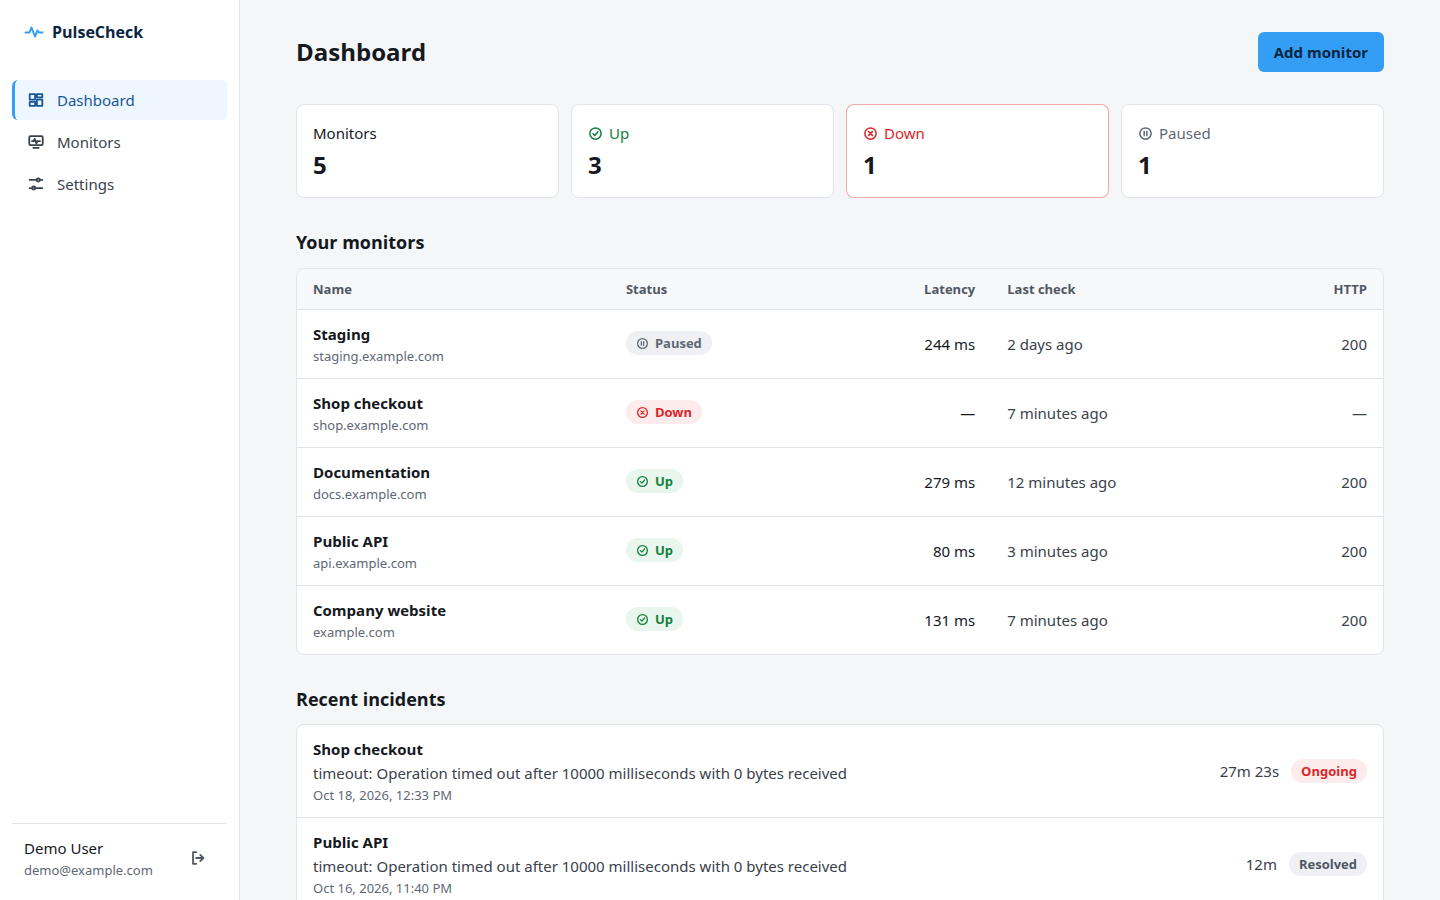
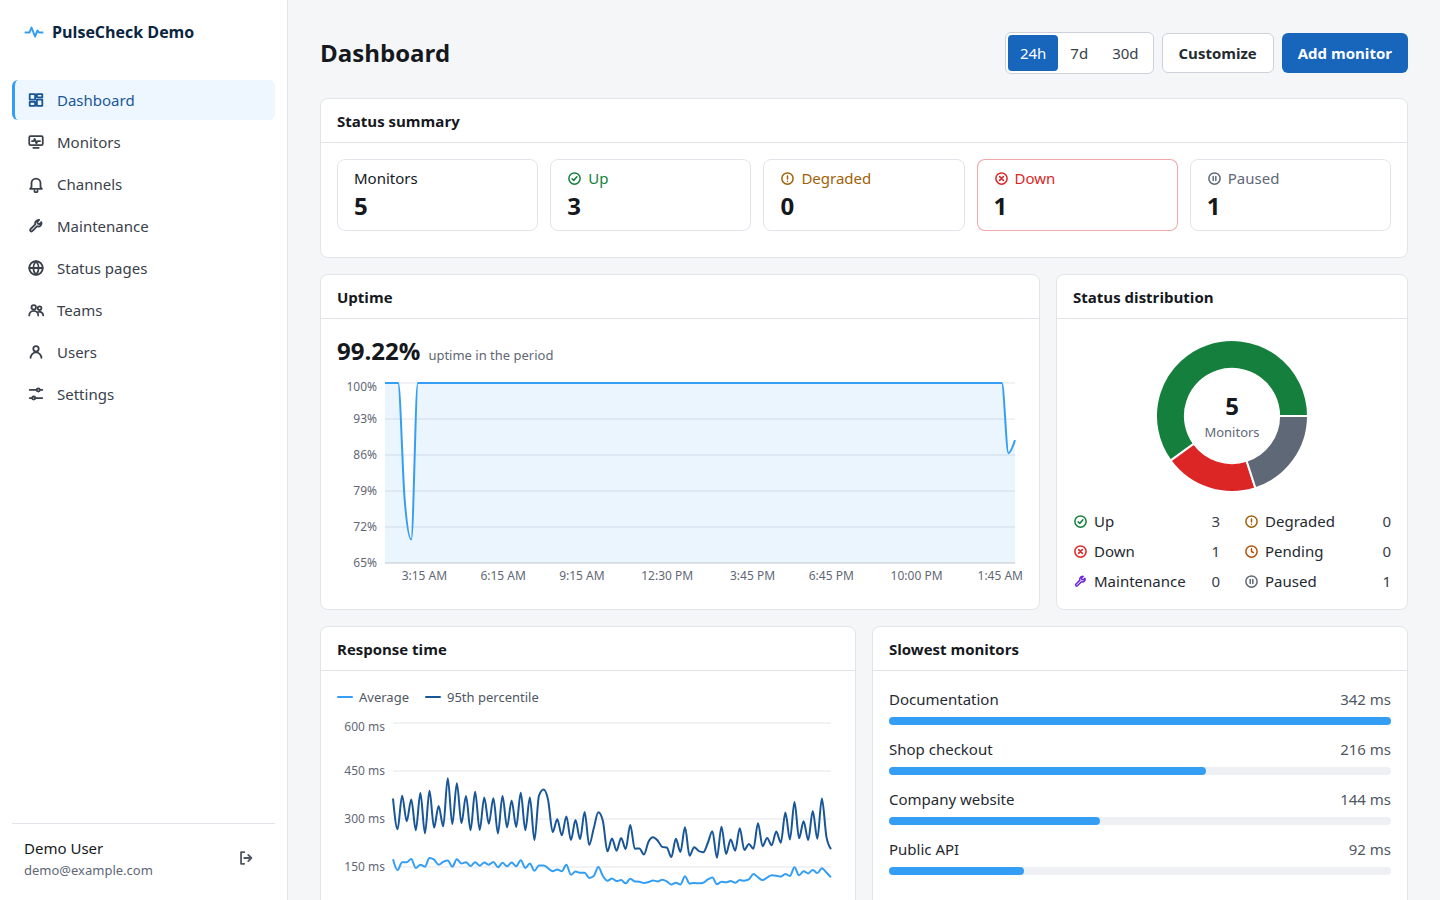
readme

diff --git a/README.md b/README.md
@@ -2,7 +2,7 @@
 
 Self-hosted uptime monitoring for one team or organization per deploy: PulseCheck checks your websites and APIs every few minutes, records response times and incidents, and alerts you on Telegram, Slack, Discord, email or any webhook when something goes down and when it comes back.
 
-![Dashboard with five monitors, one of them down, and recent incidents](screenshots/dashboard.png)
+![Dashboard with the status summary, uptime, status distribution, response time and slowest monitors charts](screenshots/dashboard.png)
 
 <sub>Screenshots show the real application running locally with demo data from `DevelopmentSeeder`.</sub>
 
@@ -19,20 +19,27 @@ Self-hosted uptime monitoring for one team or organization per deploy: PulseChec
 - **Incidents** with cause, start, end and duration; one incident per outage. Anyone who can see the monitor can **acknowledge** an open incident and add **notes**; both update live for everyone looking at it.
 - **Repeated alerts**: each monitor can repeat the down alert every 15, 30, 60, 120 or 240 minutes (`PULSECHECK_REMINDER_INTERVALS`) until the incident is acknowledged or resolved.
 - **Maintenance windows**: one-off or weekly (with time zone, and windows that cross midnight), for chosen monitors or whole teams. During a window checks keep running, but no incident or alert is created and uptime leaves the period out. A failure that continues after the window opens the incident from the first check after it.
+- **Customizable dashboard**: each person arranges their own dashboard with resizable charts (status summary and distribution, monitors needing attention, recent incidents and incident timeline, uptime and latency trends, slowest monitors, error breakdown, latency of one monitor) and can reset it to the default layout.
 - **Metrics**: uptime per period (24 h, 7 d, 30 d), average and 95th percentile response time, latency chart and a 30-day availability bar that tells "no data" apart from "100%".
 - **Languages**: the interface, alerts and validation messages written by PulseCheck follow the instance language (English or Portuguese).
 - **Check history** with date filters and pagination.
+- **Monitor forms on their own pages** (`/monitors/new`, `/monitors/{id}/edit`), with the form grouped in sections.
 - **Public status pages** at `/status/{slug}`, without login: overall status, each chosen monitor with its uptime for the last 30, 60 or 90 days, optionally the average response time and the incidents of the last 14 days. Monitors can get a public display name; URLs, error details and incident causes are never shown. Pages belong to teams like monitors, start as drafts and are cached for 60 seconds.
 - **Uptime badges**: per-monitor SVG images (`/api/public/badges/{token}/status.svg` and `uptime.svg?days=7|30|90`) for a README or an internal page. The token is random, not the monitor id, and can be regenerated or turned off.
-- **Notification channels** on down and recovery: Telegram, Slack, Discord, email and a generic JSON webhook for anything else. Each monitor picks its channels; every channel has a test button, and secrets (tokens, webhook URLs, headers) are stored encrypted and never shown again.
+- **Notification channels** on down and recovery: Telegram, Slack, Discord, email and a generic JSON webhook for anything else. Each channel has its own page where you choose which events it receives, set quiet hours, pick a detailed or compact message, mention `@here`/`@channel` on Slack or a role on Discord, send Telegram messages silently and see a live preview of the alert. Each monitor picks its channels; every channel has a test button, and secrets (tokens, webhook URLs, headers) are stored encrypted and never shown again.
+- **Email service from the panel**: SMTP, Mailgun, Postmark, Resend or Amazon SES configured under **Settings › Email**, with a test email. Credentials are stored encrypted and take priority over the `MAIL_*` variables.
 - **One instance per organization**: the first visit opens a setup wizard (instance name, time zone, language and the first administrator). Monitors and notification channels belong to teams, and each person sees only the teams they were given.
-- **Teams, users and roles**: administrators create teams and accounts, and pick each person's role (`admin`, `manager` or `member`) and teams, or give them access to all monitors. Managers create and edit the monitors and channels of their teams; members only view them. There is no public sign-up. Login and password reset for everyone.
+- **Teams, users and roles**: administrators manage teams and accounts on the **Teams** and **Users** pages. Each team has its own page to choose its people and monitors; each account gets a role (`admin`, `manager` or `member`) and teams, or access to all monitors. Managers create and edit the monitors and channels of their teams; members only view them. There is no public sign-up. Login and password reset for everyone.
 - **SSRF protection**: monitors cannot reach private networks, cloud metadata endpoints or other internal addresses, including through redirects or DNS tricks.
 - **Single `docker compose up`** on any Linux server; Redis is optional.
 
 | Monitor detail | Mobile |
 |---|---|
 | ![Monitor detail with uptime, latency chart, daily availability and incidents](screenshots/monitor-detail.png) | ![Dashboard on a phone](screenshots/mobile-dashboard.png) |
+
+| Notification channel | Team |
+|---|---|
+| ![New notification channel page with setup help and alert preview](screenshots/channel.png) | ![Team page with its people and monitors](screenshots/team.png) |
 
 More screenshots: [login](screenshots/login.png), [settings](screenshots/settings.png).
 
@@ -100,7 +107,7 @@ docker compose ps -a         # app and web "healthy", migrate "Exited (0)"
 curl -fsS http://localhost/up
 ```
 
-Open `APP_URL` in a browser: the setup wizard asks for the instance name, time zone, language and the administrator account, and lets you add a first notification channel. Then add a monitor and create teams and accounts under **Settings → Teams** and **Settings → Users**. The first check runs within a minute; after two successful checks the monitor shows **Up**.
+Open `APP_URL` in a browser: the setup wizard asks for the instance name, time zone, language and the administrator account, and lets you add a first notification channel. Then add a monitor and create teams and accounts on the **Teams** and **Users** pages (administrators only). To send password reset and email alerts, configure the mail service under **Settings › Email**. The first check runs within a minute; after two successful checks the monitor shows **Up**.
 
 PulseCheck serves plain HTTP on `APP_PORT`. For HTTPS, put it behind a TLS-terminating proxy (Caddy, Traefik, your provider's proxy), then set `APP_URL` to the `https://` address, `SESSION_SECURE_COOKIE=true` and `TRUSTED_PROXIES` (see the table below). Until setup is done, the wizard asks for a setup token so that nobody else can claim the instance: Docker Compose generates one and prints it in the app logs (`docker compose logs app | grep "Setup token"`, or `docker compose exec app php artisan pulsecheck:setup-token`). To choose the token yourself, set `PULSECHECK_SETUP_TOKEN`.
 
@@ -110,7 +117,7 @@ All variables live in the `.env` file next to `docker-compose.yml` (template: [`
 
 | Variable | Required | Default | Description |
 |---|---|---|---|
-| `APP_KEY` | **yes** | — | Encryption key for sessions and the stored notification channel secrets. Keep it secret and do not change it: stored secrets become unreadable. |
+| `APP_KEY` | **yes** | — | Encryption key for sessions, the stored notification channel secrets and the mail service credentials. Keep it secret and do not change it: stored secrets become unreadable. |
 | `APP_URL` | **yes** | — | Public address without trailing slash, e.g. `https://status.example.com`. Used for links in emails and to accept the SPA's session cookies. |
 | `DB_PASSWORD` | **yes** | — | PostgreSQL password, used by both the database and the application. |
 | `APP_PORT` | no | `80` | Host port published by the `web` container. |
@@ -193,7 +200,7 @@ Daily backup at 03:30 with cron (`crontab -e`, adjust the path; `%` must be esca
 30 3 * * * cd /opt/pulsecheck && mkdir -p backups && docker compose exec -T db pg_dump -U pulsecheck -d pulsecheck -Fc > backups/pulsecheck-$(date +\%F).dump
 ```
 
-Keep `.env` (especially `APP_KEY`) with your backups: without the same key, stored notification channel secrets cannot be decrypted.
+Keep `.env` (especially `APP_KEY`) with your backups: without the same key, stored notification channel secrets and mail service credentials cannot be decrypted.
 
 ## Deploy on Hostinger
 
@@ -262,14 +269,21 @@ They use Redis databases 15 and 14, so data in the default databases is never to
 
 ## Notifications
 
-Administrators and managers add notification channels on the **Channels** page and pick, per monitor, which channels get its alerts. Channels marked *default* are selected automatically for new monitors. An alert is sent when a monitor goes down and when it recovers; deliveries are queued, retried twice on connection errors, timeouts, 429 and 5xx responses, and never block checks.
+Administrators and managers add notification channels on the **Channels** page (each channel opens on its own page, `/channels/new` or `/channels/{id}`) and pick, per monitor, which channels get its alerts. Channels marked *default* are selected automatically for new monitors. An alert is sent when a monitor goes down and when it recovers; deliveries are queued, retried twice on connection errors, timeouts, 429 and 5xx responses, and never block checks.
+
+Every channel also has delivery preferences:
+
+- **Events**: which events it receives (down, still down, recovered, degraded, degradation resolved, incident closed). All of them by default.
+- **Quiet hours**: a daily window in the instance time zone (it may cross midnight) during which alerts are not sent. By default critical alerts (down and still down) still go out.
+- **Message format**: `detailed` (with host, cause and times) or `compact` (title and summary only).
+- **Preview**: the channel page shows how each event will look with the chosen format (`GET /api/notification-channels/preview`).
 
 | Channel | Settings | Notes |
 |---|---|---|
-| Telegram | Bot token, chat ID | Plain-text message through the Bot API. |
-| Slack | Incoming webhook URL (`https://hooks.slack.com/…`) | Block Kit message. |
-| Discord | Webhook URL (`https://discord.com/api/webhooks/…`) | Colored embed, mentions disabled. |
-| Email | Address | Sent with the mailer configured in `MAIL_*`. |
+| Telegram | Bot token, chat ID, optional silent delivery | Plain-text message through the Bot API. Silent messages arrive without sound. |
+| Slack | Incoming webhook URL (`https://hooks.slack.com/…`), optional mention | Block Kit message. Critical alerts can mention `@here` or `@channel`. |
+| Discord | Webhook URL (`https://discord.com/api/webhooks/…`), optional role ID | Colored embed. Critical alerts can mention one role; every other mention is disabled. |
+| Email | Address | Sent with the mail service from **Settings › Email**, or `MAIL_*` when none is set. |
 | Webhook | URL, optional headers (up to 10) | JSON `POST` for any other service (PagerDuty, Opsgenie, n8n, Zapier, your own API…). |
 
 Slack, Discord and webhook deliveries go through the same SSRF guard as checks: private and internal addresses are refused, the connection is pinned to the validated IP and redirects are not followed. Webhook headers can carry credentials such as `Authorization`; `Host`, `Content-Type`, `Content-Length`, `Transfer-Encoding`, `Connection` and `User-Agent` are reserved.
@@ -341,12 +355,12 @@ What is **not** guaranteed:
 
 ### Data and access
 
-- Monitors and notification channels are visible only to administrators, users with access to all monitors, and members of the teams they belong to; items without a team are hidden from everyone else, and anything outside a user's scope answers 404. Real-time updates go to a per-user channel (`users.{id}.monitors`) and reach only users who can see the monitor. Managers and administrators can change monitors and channels; members are read-only and do not receive channel settings. Only administrators can manage teams, users and instance settings; the last administrator cannot be demoted or deleted, and nobody can delete their own account.
+- Monitors and notification channels are visible only to administrators, users with access to all monitors, and members of the teams they belong to; items without a team are hidden from everyone else, and anything outside a user's scope answers 404. Real-time updates go to a per-user channel (`users.{id}.monitors`) and reach only users who can see the monitor. Managers and administrators can change monitors and channels; members are read-only and do not receive channel settings. Only administrators can manage teams, users and instance settings (administrators already see everything, so they are not team members); the last administrator cannot be demoted or deleted, and nobody can delete their own account.
 - There is no public sign-up. The setup endpoint only works while the instance has not been set up, and requires a setup token (`PULSECHECK_SETUP_TOKEN` or a generated one).
 - Session cookies are `HttpOnly`, `SameSite=Lax` and `Secure` when `SESSION_SECURE_COOKIE=true`; state-changing requests require the CSRF token.
-- Notification channel settings are encrypted with `APP_KEY`. Secrets (Telegram bot token, Slack, Discord and generic webhook URLs, webhook headers) are never returned by the API or logged, and delivery errors are reported with generic messages.
+- Notification channel settings and the mail service credentials are encrypted with `APP_KEY`. Secrets (Telegram bot token, Slack, Discord and generic webhook URLs, webhook headers) are never returned by the API or logged, and delivery errors are reported with generic messages.
 - Error messages stored for failed checks drop URL query strings and are truncated.
-- Rate limits (per minute): login 5 per email and IP; setup, forgot-password and reset-password 5 per IP; monitor and notification channel changes 30 per user; test notifications 5 per user.
+- Rate limits (per minute): login 5 per email and IP; setup, forgot-password and reset-password 5 per IP; monitor, notification channel, incident, maintenance window and status page changes 30 per user; dashboard layout changes 60 per user; test notifications and test emails 5 per user; heartbeats 30 per token and IP; public status pages 60 and badges 120 per IP.
 - Production passwords need at least 8 characters with mixed case and numbers, and are checked against known breaches.
 - Password reset links contain a token: Nginx does not write `/reset-password` requests to its access log, but the `log` mailer writes the emails to the container logs, so use SMTP in production.
 
@@ -379,7 +393,7 @@ docker compose exec app ls -ld storage bootstrap/cache
 
 **"CSRF token mismatch" (HTTP 419) or being logged out right after logging in.** Usually a proxy or cookie mismatch: `APP_URL` must be exactly the address in the browser (scheme, host and port); behind HTTPS set `SESSION_SECURE_COOKIE=true`; behind a proxy set `TRUSTED_PROXIES`. Then recreate the PHP containers so the configuration cache is rebuilt: `docker compose up -d`.
 
-**Notifications do not arrive.** Use *Send test* next to the channel in Settings. "The destination rejected the notification" means the destination answered with an error such as 401, 403 or 404: for Telegram the token or chat ID is wrong or the bot cannot write to that chat (send the bot a message first, or add it to the group or channel); for Slack and Discord the webhook was deleted; for a webhook the URL or headers are wrong, or it redirected. Check also that the channel is enabled and selected in the monitor's settings. Notifications are only sent on state changes (down and recovery), not on every failed check. Failed deliveries are logged without secrets:
+**Notifications do not arrive.** Use *Send test* on the **Channels** page or on the channel's own page. "The destination rejected the notification" means the destination answered with an error such as 401, 403 or 404: for Telegram the token or chat ID is wrong or the bot cannot write to that chat (send the bot a message first, or add it to the group or channel); for Slack and Discord the webhook was deleted; for a webhook the URL or headers are wrong, or it redirected. Check also that the channel is enabled, selected in the monitor's settings, subscribed to that event and not inside its quiet hours. Notifications are only sent on state changes (down and recovery), not on every failed check. Failed deliveries are logged without secrets:
 
 ```sh
 docker compose logs queue | grep -i "notification delivery failed"
